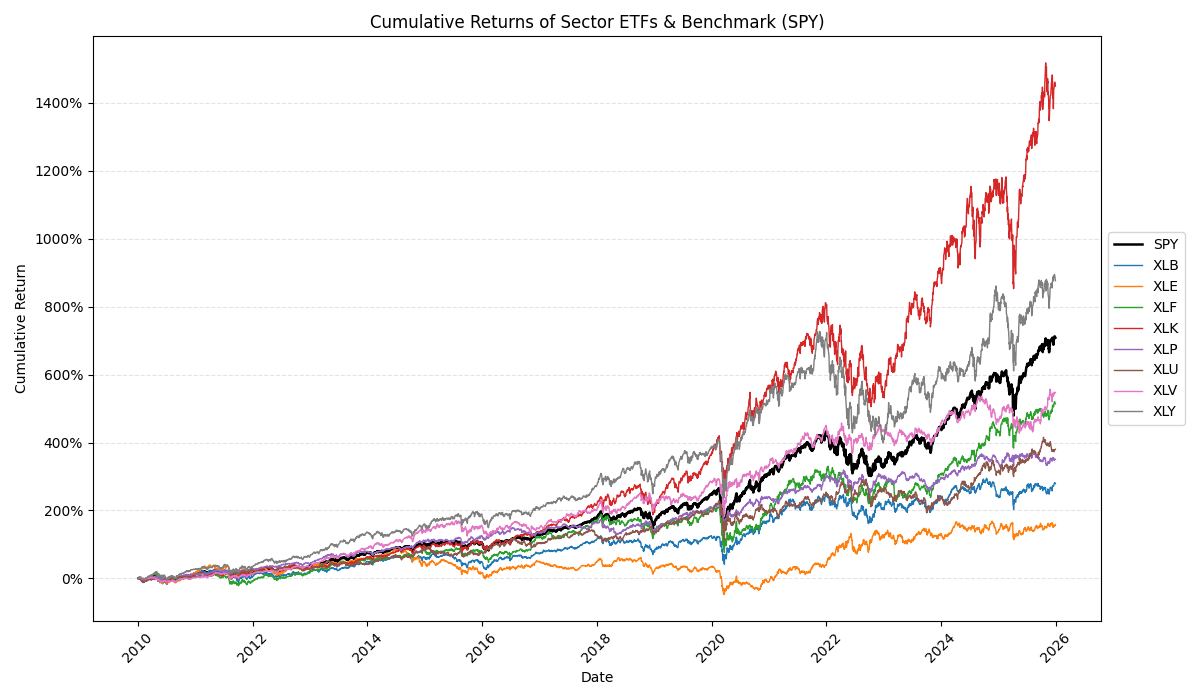
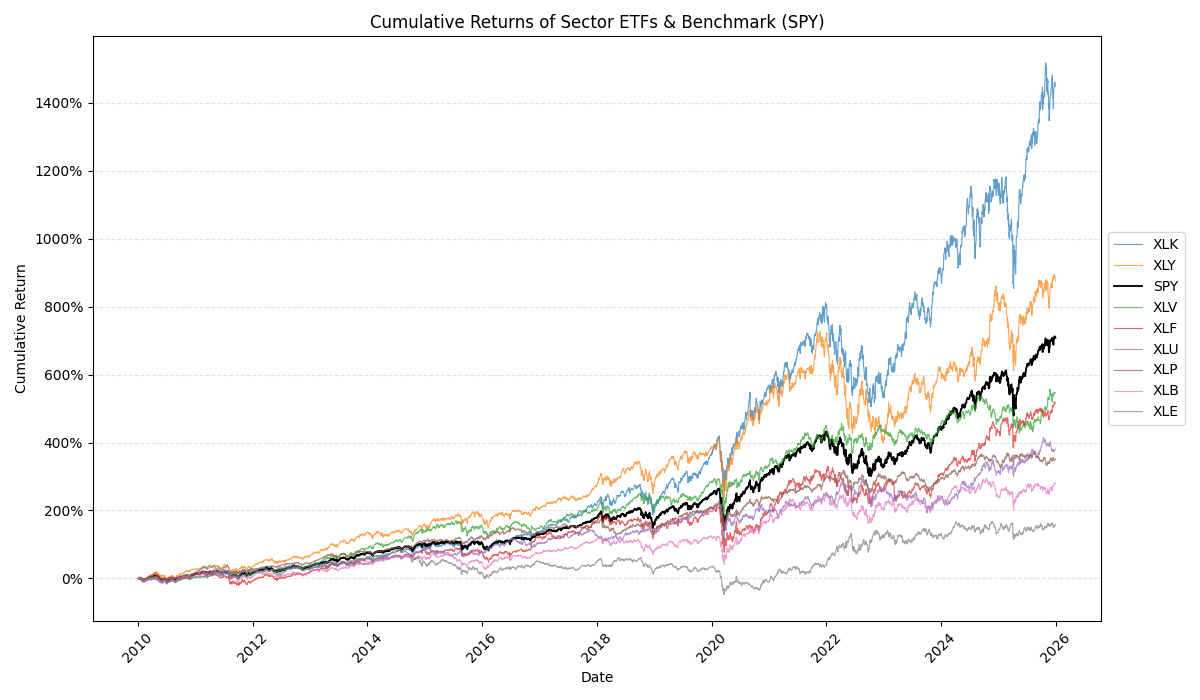
Make Cumulative return Graph better visually

diff --git a/src/04_analysis.py b/src/04_analysis.py
@@ -64,10 +64,17 @@ df ["cumulative return"] = (
     .cumprod() -1
 )
 
+# Get tickers ordered by final cumulative return, highest first
+legend_order = (
+    df.groupby("ticker")["cumulative return"]
+    .last()
+    .sort_values(ascending=False)
+    .index
+)
 # Plot the cumulative return for each sector
 plt.figure(figsize=(12, 7))
 
-for ticker in df["ticker"].unique():
+for ticker in legend_order:
     ticker_data = df[df["ticker"] == ticker]
     
     # Highlight SPY with a thicker line and different color to make it stand out as the benchmark
@@ -76,7 +83,7 @@ for ticker in df["ticker"].unique():
             ticker_data["Date"], 
             ticker_data["cumulative return"], 
             label=ticker, 
-            linewidth=1.8, 
+            linewidth=1.3, 
             color="black"
         )
     else:
@@ -84,7 +91,8 @@ for ticker in df["ticker"].unique():
             ticker_data["Date"], 
             ticker_data["cumulative return"], 
             label=ticker, 
-            linewidth=1
+            linewidth=0.8,
+            alpha=0.7
         )
     
 plt.title("Cumulative Returns of Sector ETFs & Benchmark (SPY)")
